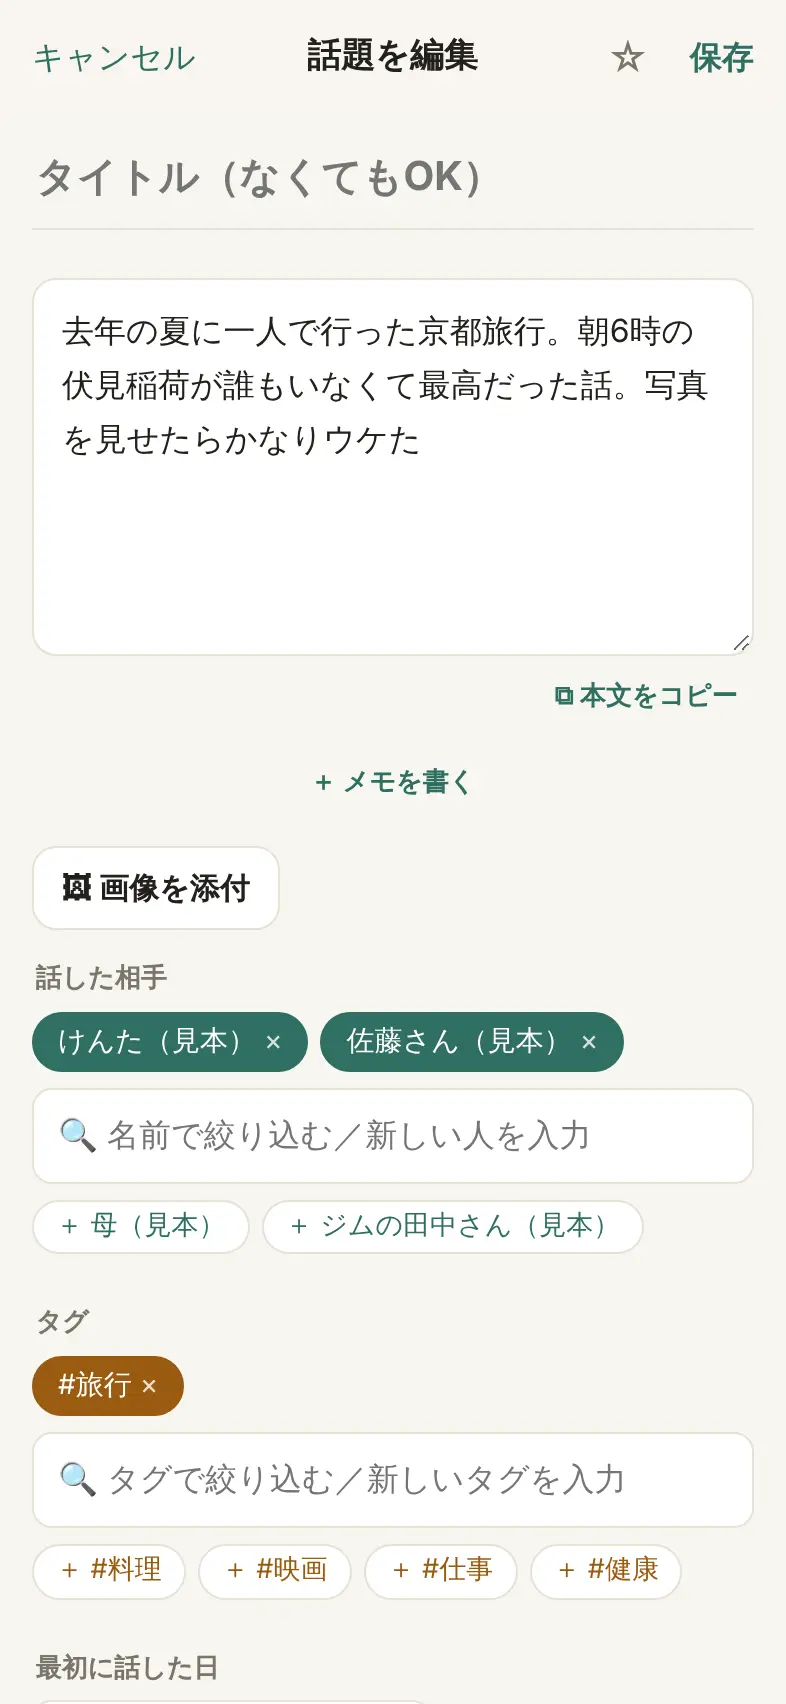
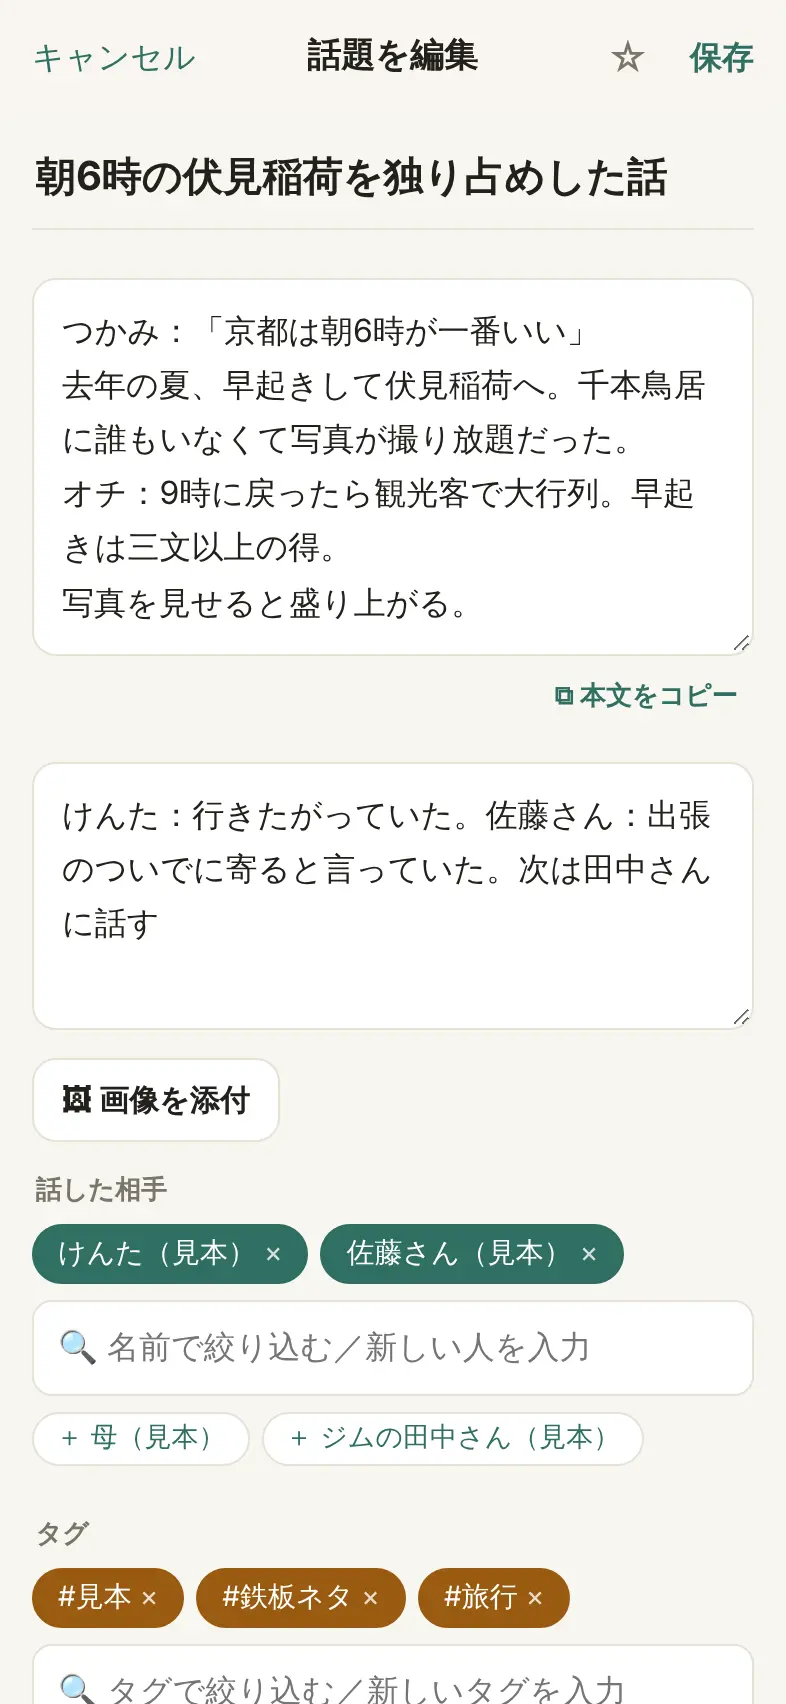
使い方ガイドにToDoと見本タグの説明を追加し、画像を最新の画面で撮り直す
Claude-Session: https://claude.ai/code/session_01QRm74kZ4FpyknH9rCatUuE

diff --git a/src/ui/GuideScreen.tsx b/src/ui/GuideScreen.tsx
@@ -41,8 +41,9 @@ const GUIDE: Section[] = [
       '話題をタップすると開いて編集できる',
       'フォルダの中で＋を押すと、そのフォルダに話題を作る',
       '消した話題は、フォルダの一覧の「最近削除した項目」から30日間戻せる',
-      '今日・明日の予定があると一番上に出る',
-      '見本は「見本を消す」で消せる（自分で書いた話題は残る）',
+      '今日・明日の予定と期限が近いToDoがあると一番上に出る',
+      '見本には「#見本」タグが付いている。「見本を消す」で消せる（自分で書いた話題は残る）',
+      '見本の案内は「今後表示しない」で閉じられる',
     ],
   },
   {
@@ -51,11 +52,11 @@ const GUIDE: Section[] = [
       { x: 0, y: 10.6, text: 'タイトル（なくてもOK）' },
       { x: 0, y: 27.4, text: '話した内容を書く。スクショを貼り付けると画像として添付' },
       { x: 82.3, y: 40.9, text: '本文をコピー（共有も）して、別の人にも同じ話を' },
-      { x: 37, y: 45.9, text: '相手の反応などのメモ' },
-      { x: 19.9, y: 52.1, text: '写真やスクショを添付' },
-      { x: 0, y: 57.5, text: '話した相手。名前で絞り込み、いなければそのまま追加' },
-      { x: 17.9, y: 72, text: '最近の人・グループ・タグはタップで選べる' },
-      { x: 0, y: 77.7, text: 'タグを付ける' },
+      { x: 0, y: 52, text: 'メモ（相手ごとの反応など）' },
+      { x: 19.9, y: 64.6, text: '写真やスクショを添付' },
+      { x: 0, y: 69.9, text: '話した相手。名前で絞り込み、いなければそのまま追加' },
+      { x: 17.9, y: 84.5, text: '最近の人・グループ・タグはタップで選べる' },
+      { x: 0, y: 90.1, text: 'タグを付ける' },
       { x: 79.9, y: 3.4, text: '☆でお気に入り' },
       { x: 92, y: 3.4, text: '保存（長押しで「保存してこの画面に留まる」）' },
     ],
@@ -89,10 +90,11 @@ const GUIDE: Section[] = [
       { x: 92, y: 3.4, text: '編集：名前・読み仮名・関係・フォルダ・グループ・メモ' },
       { x: 0, y: 13.2, text: 'プロフィール（年齢・仕事・趣味など）' },
       { x: 0, y: 28.5, text: 'この人との予定' },
-      { x: 0, y: 86.7, text: 'この人に話した話題' },
+      { x: 0, y: 86.7, text: 'この人のToDo' },
       { x: 88, y: 87.9, text: '＋でこの人に話した話題を書く' },
     ],
     more: [
+      'その下に、この人に話した話題が並ぶ',
       '同じ人を2回登録したときは、編集の「別の人に統合」で1つにまとめる',
       '編集の一番下で人を削除（話題は残る）',
       'AI機能がオンなら、話題やメモからプロフィールを自動で入れられる',
@@ -119,13 +121,27 @@ const GUIDE: Section[] = [
     key: 'schedule', img: 'schedule', title: '予定', lead: '人と会う予定を入れておく',
     spots: [
       { x: 83.5, y: 3.4, text: 'これからの予定をiPhoneなどのカレンダーに追加（.icsファイル）' },
-      { x: 38.9, y: 10.5, text: 'カレンダーとリストを切り替え' },
-      { x: 83.3, y: 54.6, text: '選んだ日に予定を追加' },
+      { x: 50, y: 10, text: '予定とToDoを切り替え' },
+      { x: 22, y: 16.6, text: 'カレンダーとリストを切り替え' },
+      { x: 83.3, y: 60.7, text: '選んだ日に予定を追加' },
       { x: 88, y: 87.9, text: '＋で予定を追加' },
     ],
     more: [
       '日付をタップすると、その日の予定が下に出る',
       '予定に人を付けると、人の画面にも出る',
+    ],
+  },
+  {
+    key: 'todo', img: 'todo', title: 'ToDo', lead: '予定タブの「ToDo」。やることを書いておく',
+    spots: [
+      { x: 0, y: 15.4, text: 'やることを入れて追加' },
+      { x: 25, y: 20.6, text: '期限や相手を付けて追加' },
+      { x: 88, y: 87.9, text: '＋でToDoを追加' },
+    ],
+    more: [
+      '終わったらチェックで完了',
+      '相手を付けたToDoは、人の画面のToDo欄にも出る',
+      '期限が近いToDoは、話題タブの一番上にも出る',
     ],
   },
   {

diff --git a/src/i18n/en.ts b/src/i18n/en.ts
@@ -694,7 +694,6 @@ const en: Record<string, string> = {
   "予定に人を付けると、人の画面にも出る": "Plans with people also show on their screens",
   "人と会う予定を入れておく": "Keep plans to meet people",
   "人を長押ししたまま、グループのチップに重ねるとグループに追加": "Long press a person and drop on a group chip to add them to it",
-  "今日・明日の予定があると一番上に出る": "Today's and tomorrow's plans show at the top",
   "保存せずにキャンセルすると確認が出る（設定の「全体」でオフにできる）": "Canceling without saving asks first (turn off in Settings > General)",
   "保存（長押しで「保存してこの画面に留まる」）": "Save (long press to \"Save and stay here\")",
   "写真やスクショを添付": "Attach photos or screenshots",
@@ -708,13 +707,11 @@ const en: Record<string, string> = {
   "機能の切り替えとデータの管理": "Switch features and manage data",
   "機能をオフにすると画面に出なくなる（データは消えない）": "Turning a feature off hides it (data is kept)",
   "消した話題は、フォルダの一覧の「最近削除した項目」から30日間戻せる": "Deleted topics can be restored for 30 days from \"Recently Deleted\" in the folder list",
-  "相手の反応などのメモ": "Notes such as how they reacted",
   "編集の一番下で人を削除（話題は残る）": "Delete the person at the bottom of Edit (topics are kept)",
   "編集：名前・読み仮名・フォルダ・削除": "Edit: name, reading, folder, delete",
   "編集：名前・読み仮名・関係・フォルダ・グループ・メモ": "Edit: name, reading, relationship, folder, groups, notes",
   "見た目には出ていない操作です。どれも、ボタンからも同じことができます": "Actions you can't see on screen. Each can also be done with buttons",
   "見出しをタップでしまう・開く": "Tap a heading to collapse or expand",
-  "見本は「見本を消す」で消せる（自分で書いた話題は残る）": "Remove the samples with \"Remove samples\" (your own topics stay)",
   "言語（日本語・English）と画面の色": "Language (Japanese / English) and color theme",
   "設定の「話題」で、保存したあとも一覧に戻らずこの画面に留まるようにできる": "In Settings > Topics, you can stay on this screen after saving instead of going back",
   "話した内容を書く。スクショを貼り付けると画像として添付": "Write what you talked about. Paste a screenshot to attach it as an image",
@@ -762,6 +759,20 @@ const en: Record<string, string> = {
   "期限なしにする": "Remove due date",
   "未完了に戻す": "Mark not done",
   "＋ 期限や相手を付けて追加": "+ Add with due date or people",
+  "今日・明日の予定と期限が近いToDoがあると一番上に出る": "Today's and tomorrow's plans and to-dos due soon show at the top",
+  "見本には「#見本」タグが付いている。「見本を消す」で消せる（自分で書いた話題は残る）": "Samples have the \"#見本\" (sample) tag. Remove them with \"Remove samples\" (your own topics stay)",
+  "見本の案内は「今後表示しない」で閉じられる": "Hide the sample notice with \"Don't show again\"",
+  "メモ（相手ごとの反応など）": "Notes (how each person reacted, etc.)",
+  "この人のToDo": "To-dos for this person",
+  "その下に、この人に話した話題が並ぶ": "Below that are the topics you told this person",
+  "予定とToDoを切り替え": "Switch between plans and to-dos",
+  "予定タブの「ToDo」。やることを書いておく": "\"To-do\" in the Schedule tab. Note things to do",
+  "やることを入れて追加": "Type a to-do and add it",
+  "期限や相手を付けて追加": "Add with a due date or person",
+  "＋でToDoを追加": "+ to add a to-do",
+  "終わったらチェックで完了": "Check it off when done",
+  "相手を付けたToDoは、人の画面のToDo欄にも出る": "To-dos with a person also show on that person's screen",
+  "期限が近いToDoは、話題タブの一番上にも出る": "To-dos due soon also show at the top of the Topics tab",
 };
 
 export default en;
